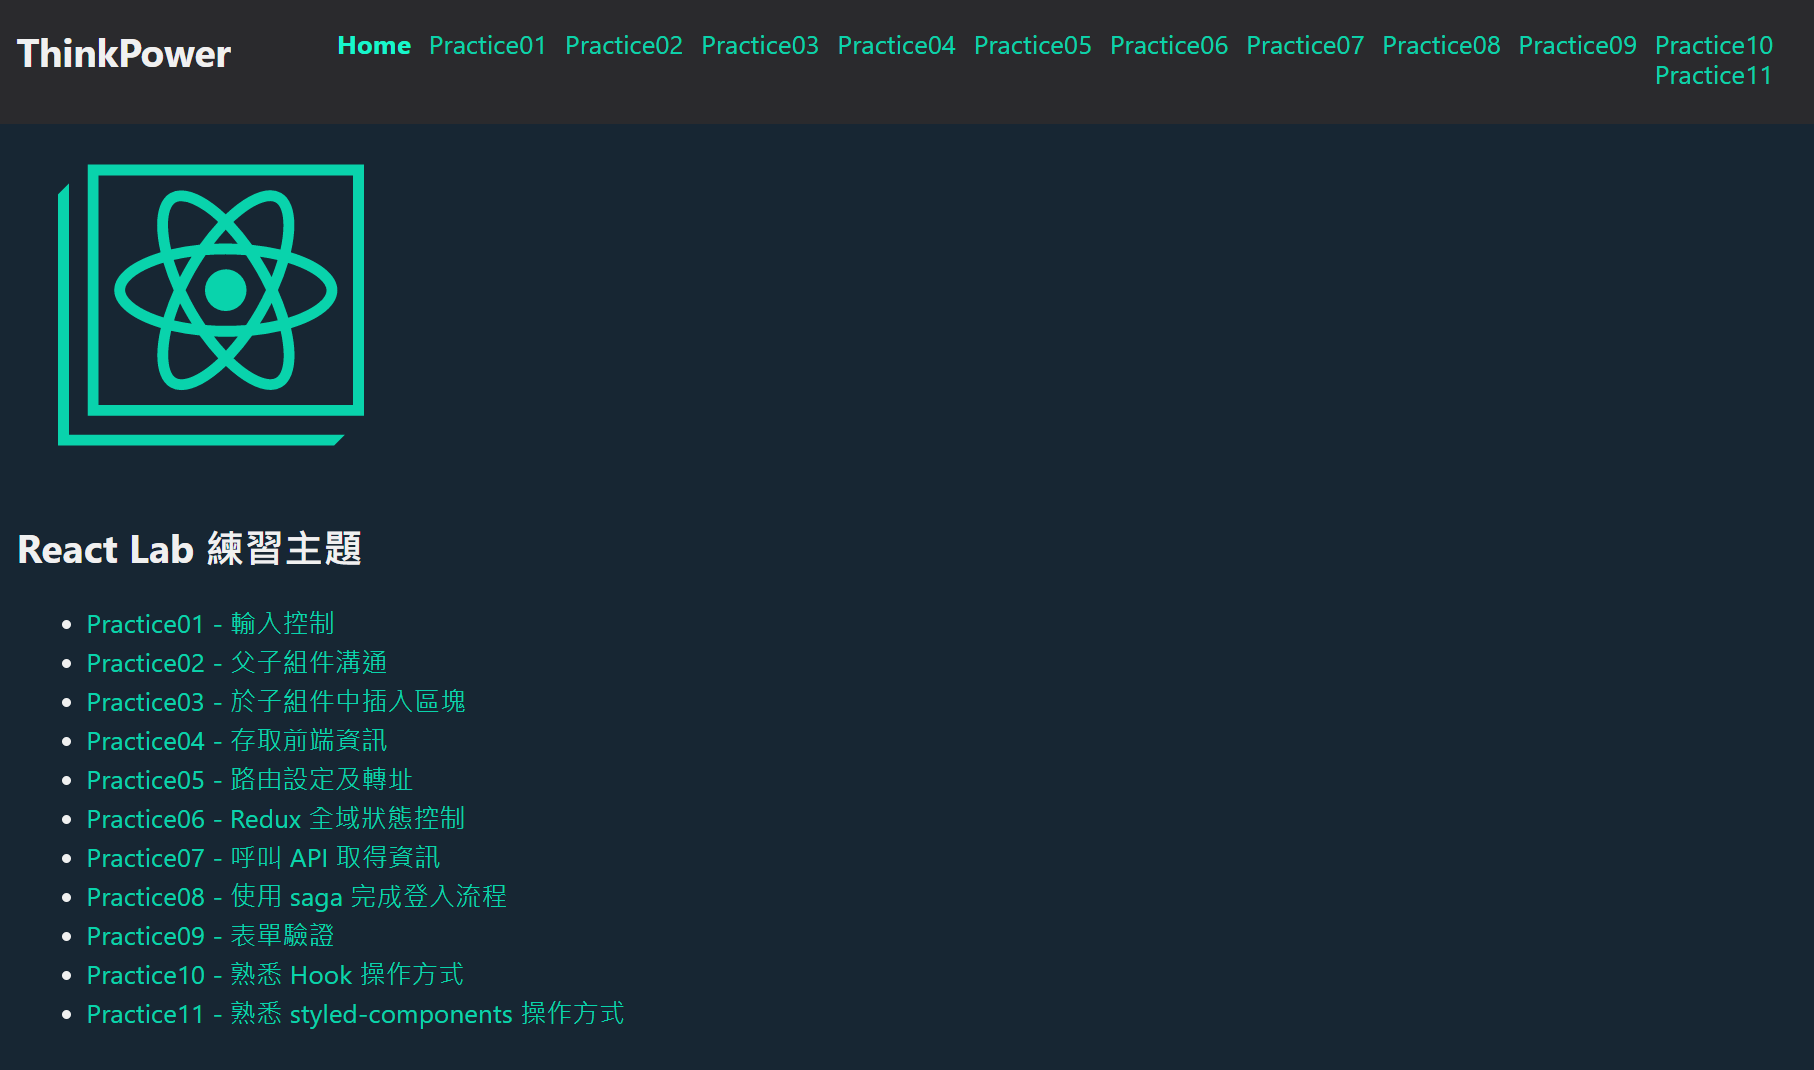
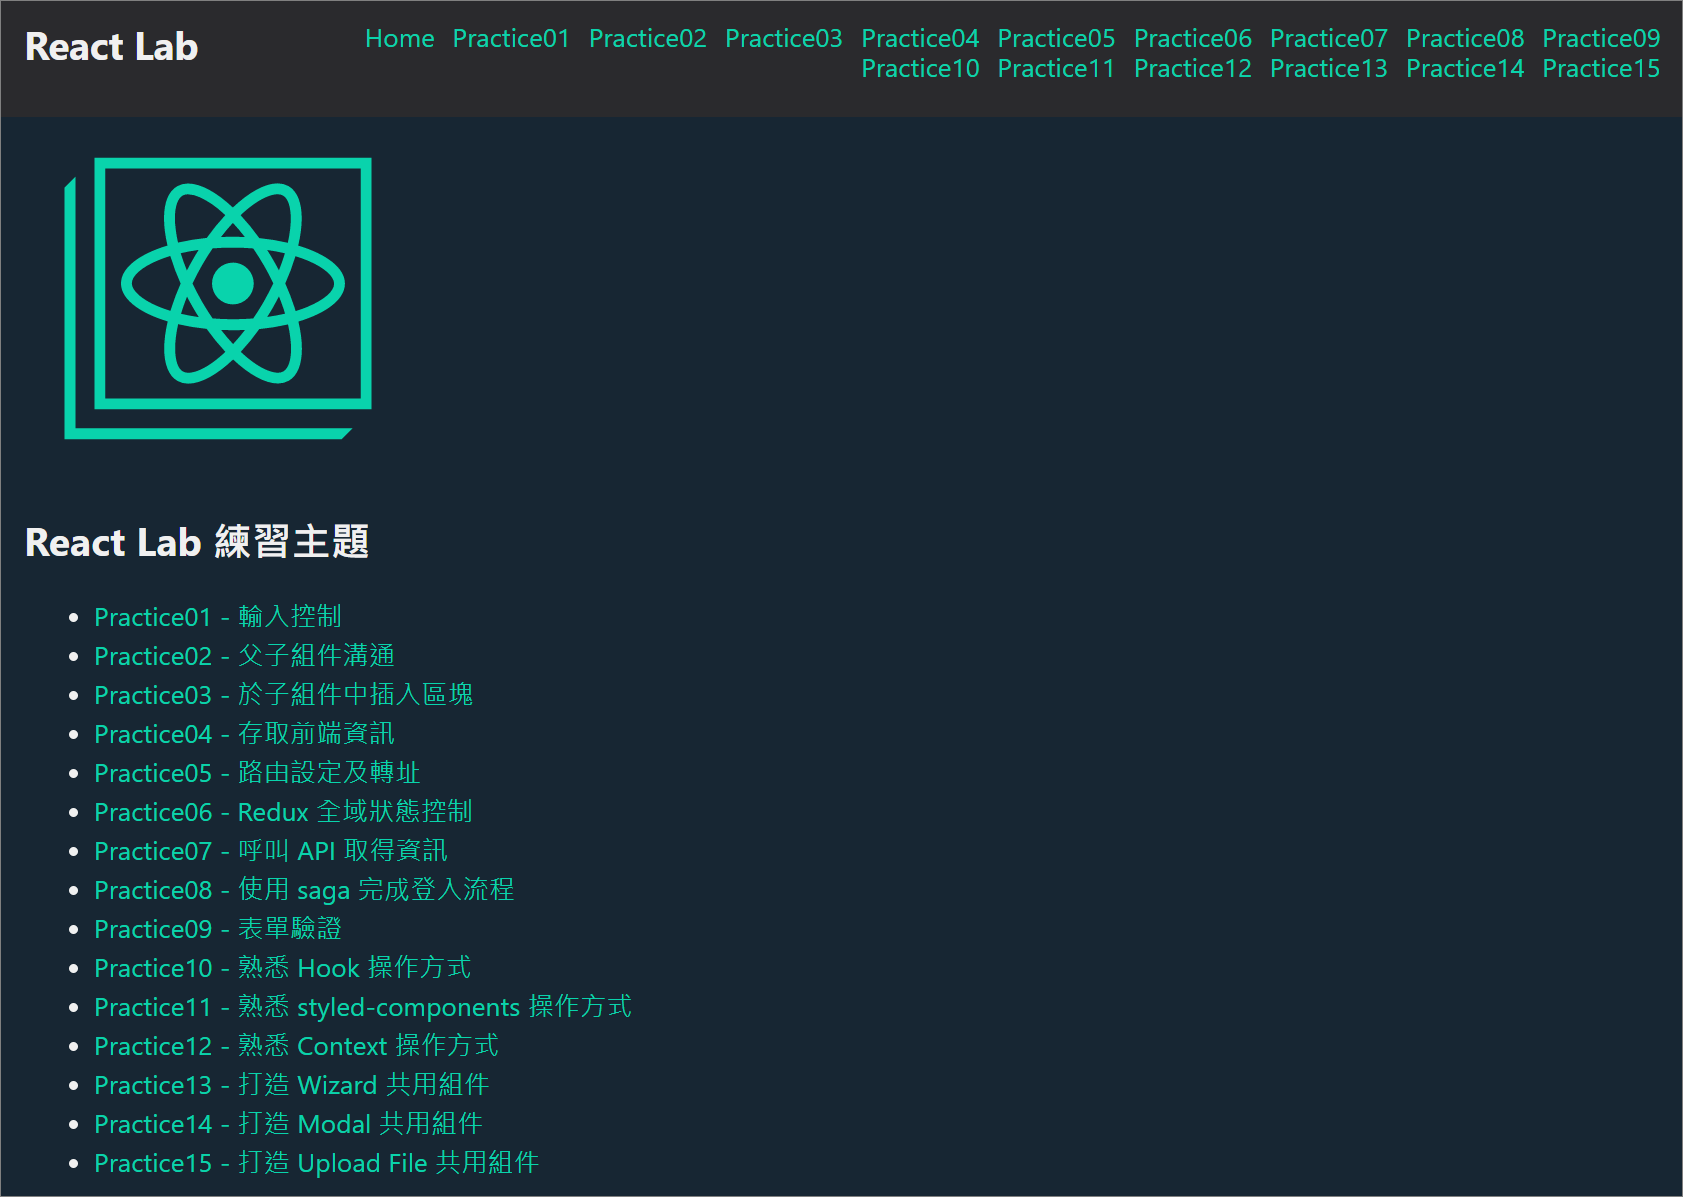
update readme

diff --git a/src/views/Home/index.js b/src/views/Home/index.js
@@ -23,6 +23,6 @@ export default () =>
       <li><Link to='/p12'>Practice12 - 熟悉 Context 操作方式</Link></li>
       <li><Link to='/p13'>Practice13 - 打造 Wizard 共用組件</Link></li>
       <li><Link to='/p14'>Practice14 - 打造 Modal 共用組件</Link></li>
-      <li><Link to='/p15'>Practice14 - 打造 Upload File 共用組件</Link></li>
+      <li><Link to='/p15'>Practice15 - 打造 Upload File 共用組件</Link></li>
     </ul>
   </>

diff --git a/src/App.js b/src/App.js
@@ -60,7 +60,7 @@ class App extends React.Component {
             <div className='app-header__container'>
 
               {/* logo */}
-              <div className='app-header__logo'> ThinkPower </div>
+              <div className='app-header__logo'> React Lab </div>
 
               {/* nav */}
               <div className='app-header__nav'>

diff --git a/README.md b/README.md
@@ -1,4 +1,4 @@
-# Thinkpower - React.js Labs #
+# React.js Labs #
 本專案使用 **creaet-react-app 3.2.0** 建立專案，提供可運作的開發環境，透過練習項目更了解 Javascript 與 ES 6 語法並且實際練習使用 React.js，以達到熟悉使用 React.js 開發之目的；此練習專案重點會放在 React.js 上面，對於 javascript 的語言特性與新版語法沒有太多著墨。文件最後會附上所有相關的參考資料連結，可依需要自行查閱。
 
 
